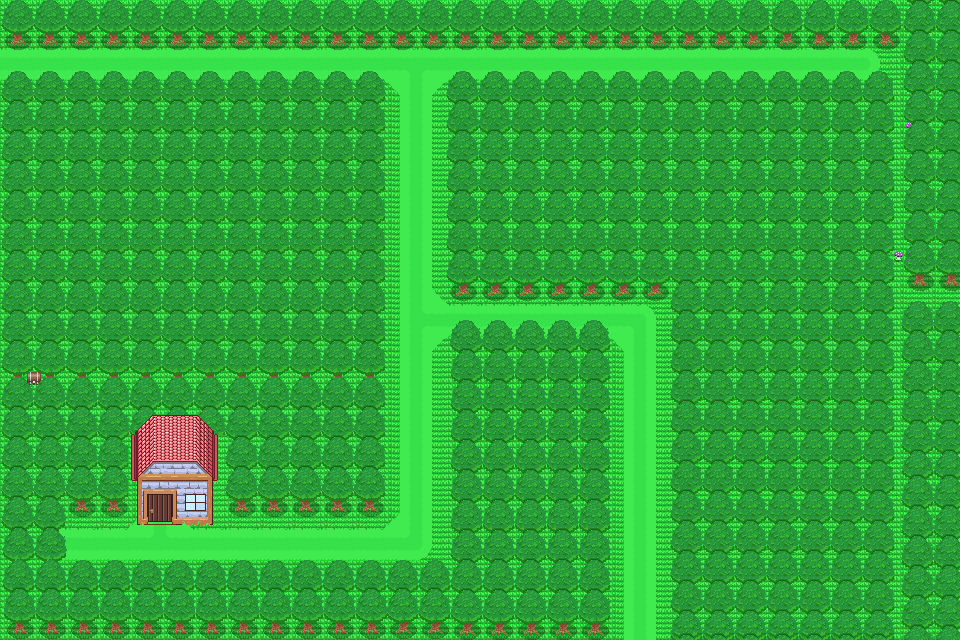
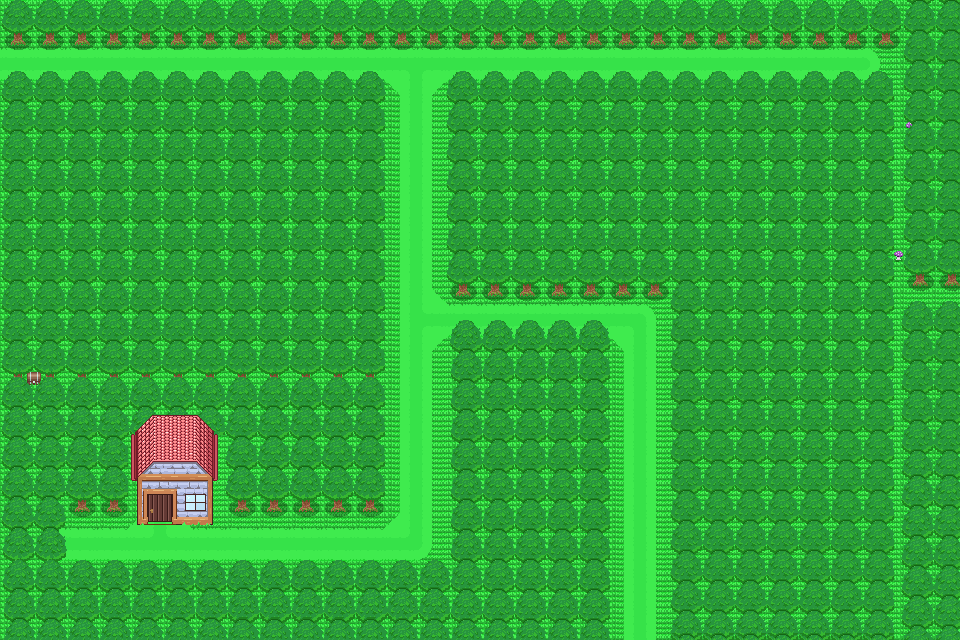
added last forest map, added loadMapData function that adds all map data to World during initialization

Changed region(s): [[0.0, 0.9688, 0.6562, 1.0]]

diff --git a/world.cpp b/world.cpp
@@ -10,10 +10,40 @@ void World::draw(sf::RenderTarget& target) {
 	for (auto& map : loadedMaps) {
 		if (drawExteriorDarkened && map.get() != currentMap) {
 			map->getSprite().setColor(sf::Color(26, 26, 26));
-			}
-			map->draw(target);
 		}
+		else {
+			map->getSprite().setColor(sf::Color(255, 255, 255));
+		}
+		map->draw(target);
 	}
+}
+
+void World::loadMapData() {
+	std::ifstream file("maps.json");
+	if (!file.is_open()) {
+		std::cerr << "Failed to open maps JSON: maps.json" << std::endl;
+		return;
+	}
+	json data;
+	file >> data;
+	for (const auto& mapJson : data["maps"]) {
+		MapData mapData;
+		mapData.id = mapJson.value("id", "");
+		mapData.texturePath = mapJson.value("texture", "");
+		mapData.collisionMapPath = mapJson.value("collisionMap", "");
+		mapData.darkenOutside = mapJson.value("darkenOutside", false);
+		if (mapJson.contains("worldPosition")) {
+			mapData.worldPosition = sf::Vector2f(
+				mapJson["worldPosition"].value("x", 0.f),
+				mapJson["worldPosition"].value("y", 0.f)
+			);
+		}
+		if (mapJson.contains("transitions")) {
+			mapData.transitions = Map::loadTransitionsFromJson(mapData.id, "maps.json");
+		}
+		mapDefinitions[mapData.id] = mapData;
+	}
+}
 
 void World::loadMap(const std::string& mapID) {
 

diff --git a/exploration.cpp b/exploration.cpp
@@ -12,6 +12,7 @@ void Exploration::start(Player& player) {
 	world.loadMap("BurumiaMap");
 	world.loadMap("BurumiaForestMap");
 	world.loadMap("BurumiaForestMap2");
+	world.loadMap("BurumiaForestMap3");
 	player.setPosition(playerPosition.x, playerPosition.y);
 	player.getWalkAnimation().setFrame(1);
 }

diff --git a/world.h b/world.h
@@ -15,6 +15,7 @@ private:
 
 public:
 	void draw(sf::RenderTarget& target);
+	void loadMapData();
 	void loadMap(const std::string& mapID);
 	void unloadCurrentMap(sf::Vector2f position);
 	std::vector<std::unique_ptr<Map>>& getLoadedMaps();
